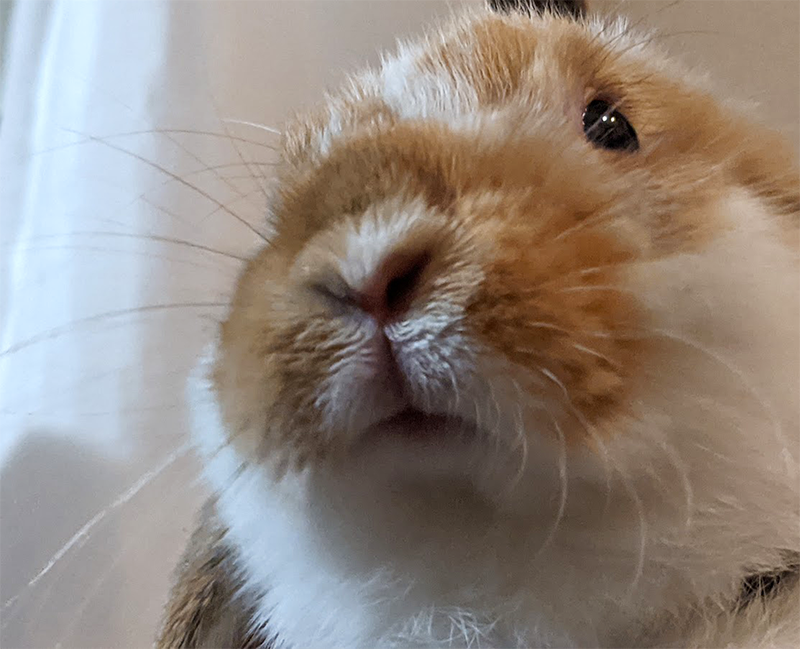
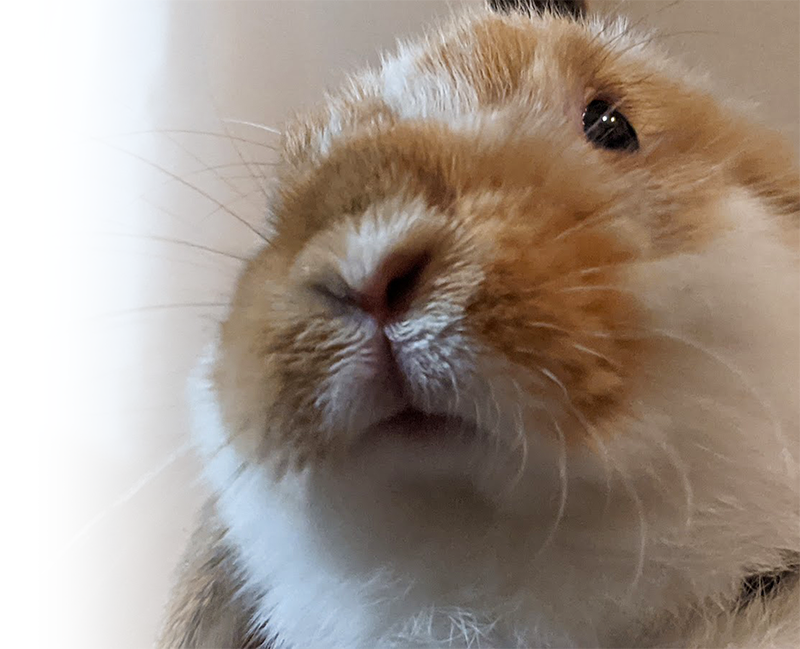
Changed about div backgrounds to Image for better rendering

Changed region(s): [[0.0, 0.0, 0.3125, 1.0]]

diff --git a/components/about/info/member.js b/components/about/info/member.js
@@ -3,36 +3,36 @@ import styles from "../../../styles/about.module.css";
 import gsap from "gsap";
 import Image from "next/image";
 
-const Nacchan = () => {
+const Member = ({ member }) => {
   const images = [
-    "/images/nacchan1.png",
-    "/images/nacchan2.png",
-    "/images/nacchan3.png",
+    `/images/${member}.png`,
+    `/images/${member}2.png`,
+    `/images/${member}3.png`,
   ];
 
   useEffect(() => {
     const tl = gsap
       .timeline({ paused: true })
       .fromTo(
-        ".nacchan-text-anim",
+        `.${member}-text-anim`,
         { opacity: 0, x: -30 },
         { opacity: 1, x: 0 }
       )
       .fromTo(
-        ".nacchan-pic-anim",
+        `.${member}-pic-anim`,
         { opacity: 0, x: -30 },
         { opacity: 1, x: 0, duration: 0.3 },
         0.3
       )
       .fromTo(
-        ".nacchan-pic-anim2",
+        `.${member}-pic-anim2`,
         { opacity: 0, x: -30 },
         { opacity: 1, x: 0, duration: 0.3 }
       )
       .fromTo(
-        ".nacchan-pic-anim3",
+        `.${member}-pic-anim3`,
         { opacity: 0, x: -30 },
-        { opacity: 1, x: 0, duration: 0.3 }
+        { opacity: 1, x: 0 }
       );
 
     tl.play(0);
@@ -40,21 +40,22 @@ const Nacchan = () => {
 
   return (
     <>
-      <div className={`${styles.infoContainer} nacchan-text-anim`}>
-        <h1>Nacchan</h1>
+      <div className={`${styles.infoContainer} ${member}-text-anim`}>
+        <h1>{member.slice(0, 1).toUpperCase() + member.slice(1)}</h1>
         <p>
-          Mocchan&apos;s little sister; she is a Hollad Lop with an endless
-          amount of energy. She&apos;s curious and adventurous and nothing can
-          hold her back from exploring new locations
+          Negi is the host and face of the stream, born in Tokyo, she moved to
+          Korea when she was 2 years old, and moved back to Tokyo when she was
+          8. She speaks fluent English and Japanese, and knows just enough
+          Korean to survive (maybe).
         </p>
         <ul>
-          <li>Hobbies: Clothes, bothering Mocchan</li>
-          <li>Favorite food: Pakuchi</li>
+          <li>Hobbies: Good food</li>
+          <li>Favorite food: Negi (Leek)</li>
         </ul>
       </div>
 
       <div
-        className={`${styles.layeredImageContainer} nacchan-pic-anim`}
+        className={`${styles.layeredImageContainer} ${member}-pic-anim`}
         style={{
           position: "relative",
           left: 0,
@@ -64,13 +65,13 @@ const Nacchan = () => {
         }}
         rel="preload"
       >
-        <div className={`${styles.layeredImage} nacchan-pic-anim`}>
+        <div className={`${styles.layeredImage} ${member}-pic-anim`}>
           <Image src={images[2]} alt="test" width={800} height={640} priority />
         </div>
-        <div className={`${styles.layeredImage} nacchan-pic-anim2`}>
+        <div className={`${styles.layeredImage} ${member}-pic-anim2`}>
           <Image src={images[1]} alt="test" width={800} height={640} priority />
         </div>
-        <div className={`${styles.layeredImage} nacchan-pic-anim3`}>
+        <div className={`${styles.layeredImage} ${member}-pic-anim3`}>
           <Image src={images[0]} alt="test" width={800} height={640} priority />
         </div>
       </div>
@@ -78,4 +79,4 @@ const Nacchan = () => {
   );
 };
 
-export default Nacchan;
+export default Member;

diff --git a/components/about/info/Negi.js b/components/about/info/Negi.js
@@ -1,6 +1,8 @@
 import React, { useEffect } from "react";
 import styles from "../../../styles/about.module.css";
 import gsap from "gsap";
+import Image from "next/image";
+import { abort } from "process";
 
 const Negi = () => {
   const images = ["/images/negi.png", "/images/negi2.png", "/images/negi3.png"];
@@ -30,7 +32,7 @@ const Negi = () => {
       <div className={`${styles.infoContainer} negi-text-anim`}>
         <h1>Negi</h1>
         <p>
-          Negi is the Host and face of the stream, born in Tokyo, she moved to
+          Negi is the host and face of the stream, born in Tokyo, she moved to
           Korea when she was 2 years old, and moved back to Tokyo when she was
           8. She speaks fluent English and Japanese, and knows just enough
           Korean to survive (maybe).
@@ -42,39 +44,24 @@ const Negi = () => {
       </div>
 
       <div
-        className={`${styles.layeredImage} negi-pic-anim`}
+        className={`${styles.layeredImageContainer} negi-pic-anim`}
         style={{
+          position: "relative",
+          left: 0,
           opacity: 0,
           width: 800,
           height: 640,
-          objectFit: "cover",
-          backgroundSize: "100%",
-          overflow: "hidden",
-          margin: "2% 0",
-          backgroundImage: `linear-gradient(to left, transparent 80%, white), url(${images[2]})`,
         }}
         rel="preload"
       >
-        <div
-          className={`${styles.layeredImage} negi-pic-anim2`}
-          style={{
-            opacity: 0,
-            width: 800,
-            height: 640,
-            backgroundSize: "100%",
-            backgroundImage: `linear-gradient(to left, transparent 80%, white), url(${images[1]})`,
-          }}
-        >
-          <div
-            className={`${styles.layeredImage} negi-pic-anim3`}
-            style={{
-              opacity: 0,
-              width: 800,
-              height: 640,
-              backgroundSize: "100%",
-              backgroundImage: `linear-gradient(to left, transparent 80%, white), url(${images[0]})`,
-            }}
-          ></div>
+        <div className={`${styles.layeredImage} negi-pic-anim`}>
+          <Image src={images[2]} alt="test" width={800} height={640} priority />
+        </div>
+        <div className={`${styles.layeredImage} negi-pic-anim2`}>
+          <Image src={images[1]} alt="test" width={800} height={640} priority />
+        </div>
+        <div className={`${styles.layeredImage} negi-pic-anim3`}>
+          <Image src={images[0]} alt="test" width={800} height={640} priority />
         </div>
       </div>
     </>

diff --git a/components/about/info/Orange.js b/components/about/info/Orange.js
@@ -1,6 +1,7 @@
 import React, { useEffect } from "react";
 import styles from "../../../styles/about.module.css";
 import gsap from "gsap";
+import Image from "next/image";
 
 const Orange = () => {
   const images = [
@@ -47,43 +48,26 @@ const Orange = () => {
           <li>Favorite food: Food</li>
         </ul>
       </div>
+
       <div
-        className={`${styles.layeredImage} orange-pic-anim`}
+        className={`${styles.layeredImageContainer} orange-pic-anim`}
         style={{
+          position: "relative",
+          left: 0,
           opacity: 0,
           width: 800,
           height: 640,
-          objectFit: "cover",
-          backgroundSize: "100%",
-          overflow: "hidden",
-          margin: "2% 0",
-          backgroundImage: `linear-gradient(to left, transparent 80%, white), url(${images[2]})`,
         }}
+        rel="preload"
       >
-        <div
-          className={`${styles.layeredImage} orange-pic-anim2`}
-          style={{
-            opacity: 0,
-            width: 800,
-            height: 640,
-            objectFit: "cover",
-            backgroundSize: "100%",
-            overflow: "hidden",
-            backgroundImage: `linear-gradient(to left, transparent 80%, white), url(${images[1]})`,
-          }}
-        >
-          <div
-            className={`${styles.layeredImage} orange-pic-anim3`}
-            style={{
-              opacity: 0,
-              width: "100%",
-              height: "100%",
-              objectFit: "cover",
-              backgroundSize: "100%",
-              overflow: "hidden",
-              backgroundImage: `linear-gradient(to left, transparent 80%, white), url(${images[0]})`,
-            }}
-          ></div>
+        <div className={`${styles.layeredImage} orange-pic-anim`}>
+          <Image src={images[2]} alt="test" width={800} height={640} priority />
+        </div>
+        <div className={`${styles.layeredImage} orange-pic-anim2`}>
+          <Image src={images[1]} alt="test" width={800} height={640} priority />
+        </div>
+        <div className={`${styles.layeredImage} orange-pic-anim3`}>
+          <Image src={images[0]} alt="test" width={800} height={640} priority />
         </div>
       </div>
     </>

diff --git a/components/about/info/Mocchan.js b/components/about/info/Mocchan.js
@@ -1,6 +1,7 @@
 import React, { useEffect } from "react";
 import styles from "../../../styles/about.module.css";
 import gsap from "gsap";
+import Image from "next/image";
 
 const Mocchan = () => {
   const images = [
@@ -52,42 +53,24 @@ const Mocchan = () => {
       </div>
 
       <div
-        className={`${styles.layeredImage} mocchan-pic-anim`}
+        className={`${styles.layeredImageContainer} mocchan-pic-anim`}
         style={{
+          position: "relative",
+          left: 0,
           opacity: 0,
           width: 800,
           height: 640,
-          objectFit: "cover",
-          backgroundSize: "100%",
-          overflow: "hidden",
-          margin: "2% 0",
-          backgroundImage: `linear-gradient(to left, transparent 80%, white), url(${images[2]})`,
         }}
+        rel="preload"
       >
-        <div
-          className={`${styles.layeredImage} mocchan-pic-anim2`}
-          style={{
-            opacity: 0,
-            width: 800,
-            height: 640,
-            objectFit: "cover",
-            backgroundSize: "100%",
-            overflow: "hidden",
-            backgroundImage: `linear-gradient(to left, transparent 80%, white), url(${images[1]})`,
-          }}
-        >
-          <div
-            className={`${styles.layeredImage} mocchan-pic-anim3`}
-            style={{
-              opacity: 0,
-              width: "100%",
-              height: "100%",
-              objectFit: "cover",
-              backgroundSize: "100%",
-              overflow: "hidden",
-              backgroundImage: `linear-gradient(to left, transparent 80%, white), url(${images[0]})`,
-            }}
-          ></div>
+        <div className={`${styles.layeredImage} mocchan-pic-anim`}>
+          <Image src={images[2]} alt="test" width={800} height={640} priority />
+        </div>
+        <div className={`${styles.layeredImage} mocchan-pic-anim2`}>
+          <Image src={images[1]} alt="test" width={800} height={640} priority />
+        </div>
+        <div className={`${styles.layeredImage} mocchan-pic-anim3`}>
+          <Image src={images[0]} alt="test" width={800} height={640} priority />
         </div>
       </div>
     </>

diff --git a/styles/about.module.css b/styles/about.module.css
@@ -66,12 +66,17 @@
   width: 100%;
 }
 
-.layeredImage {
-  width: 50%;
+.layeredImageContainer {
+  width: 100%;
   height: 100%;
   display: inherit;
   align-self: flex-end;
-  background-repeat: no-repeat;
+}
+
+.layeredImage {
+  position: absolute;
+  right: 0;
+  top: 0;
 }
 
 .memberSelected {
